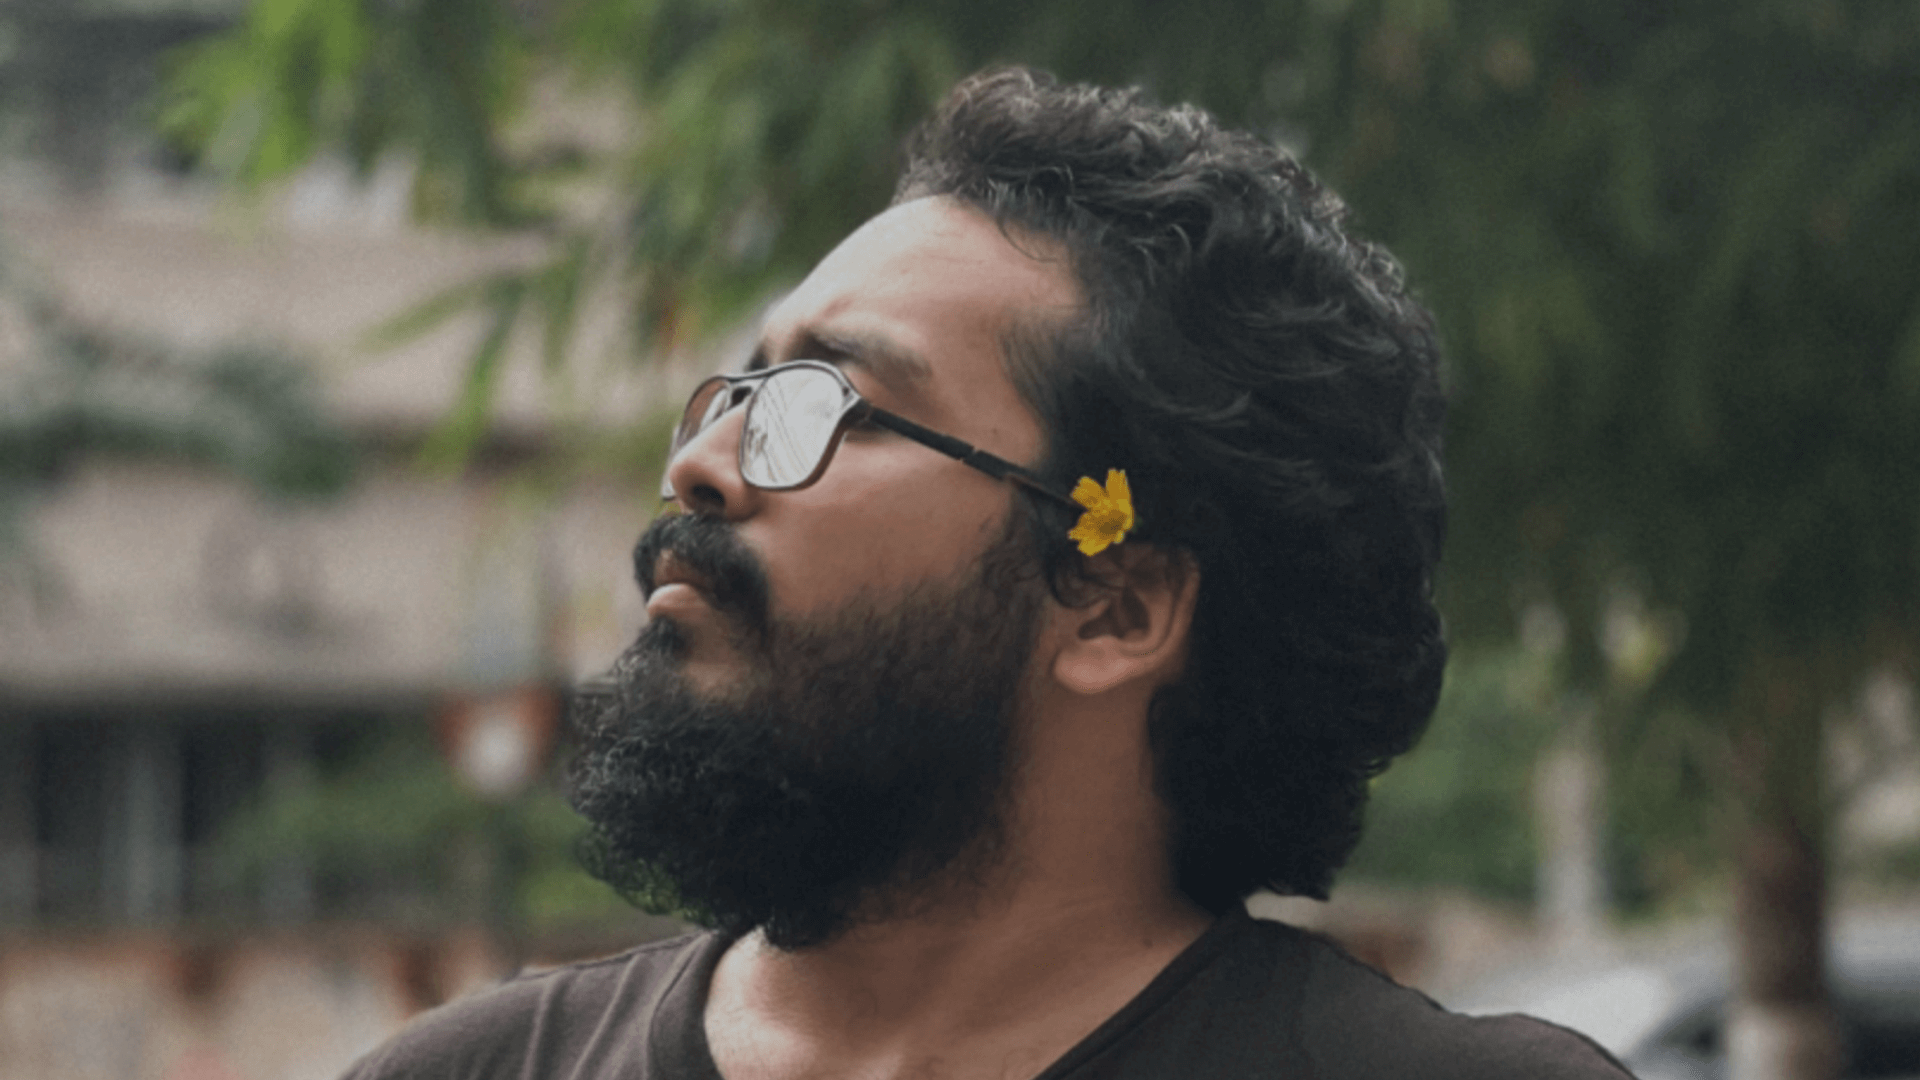
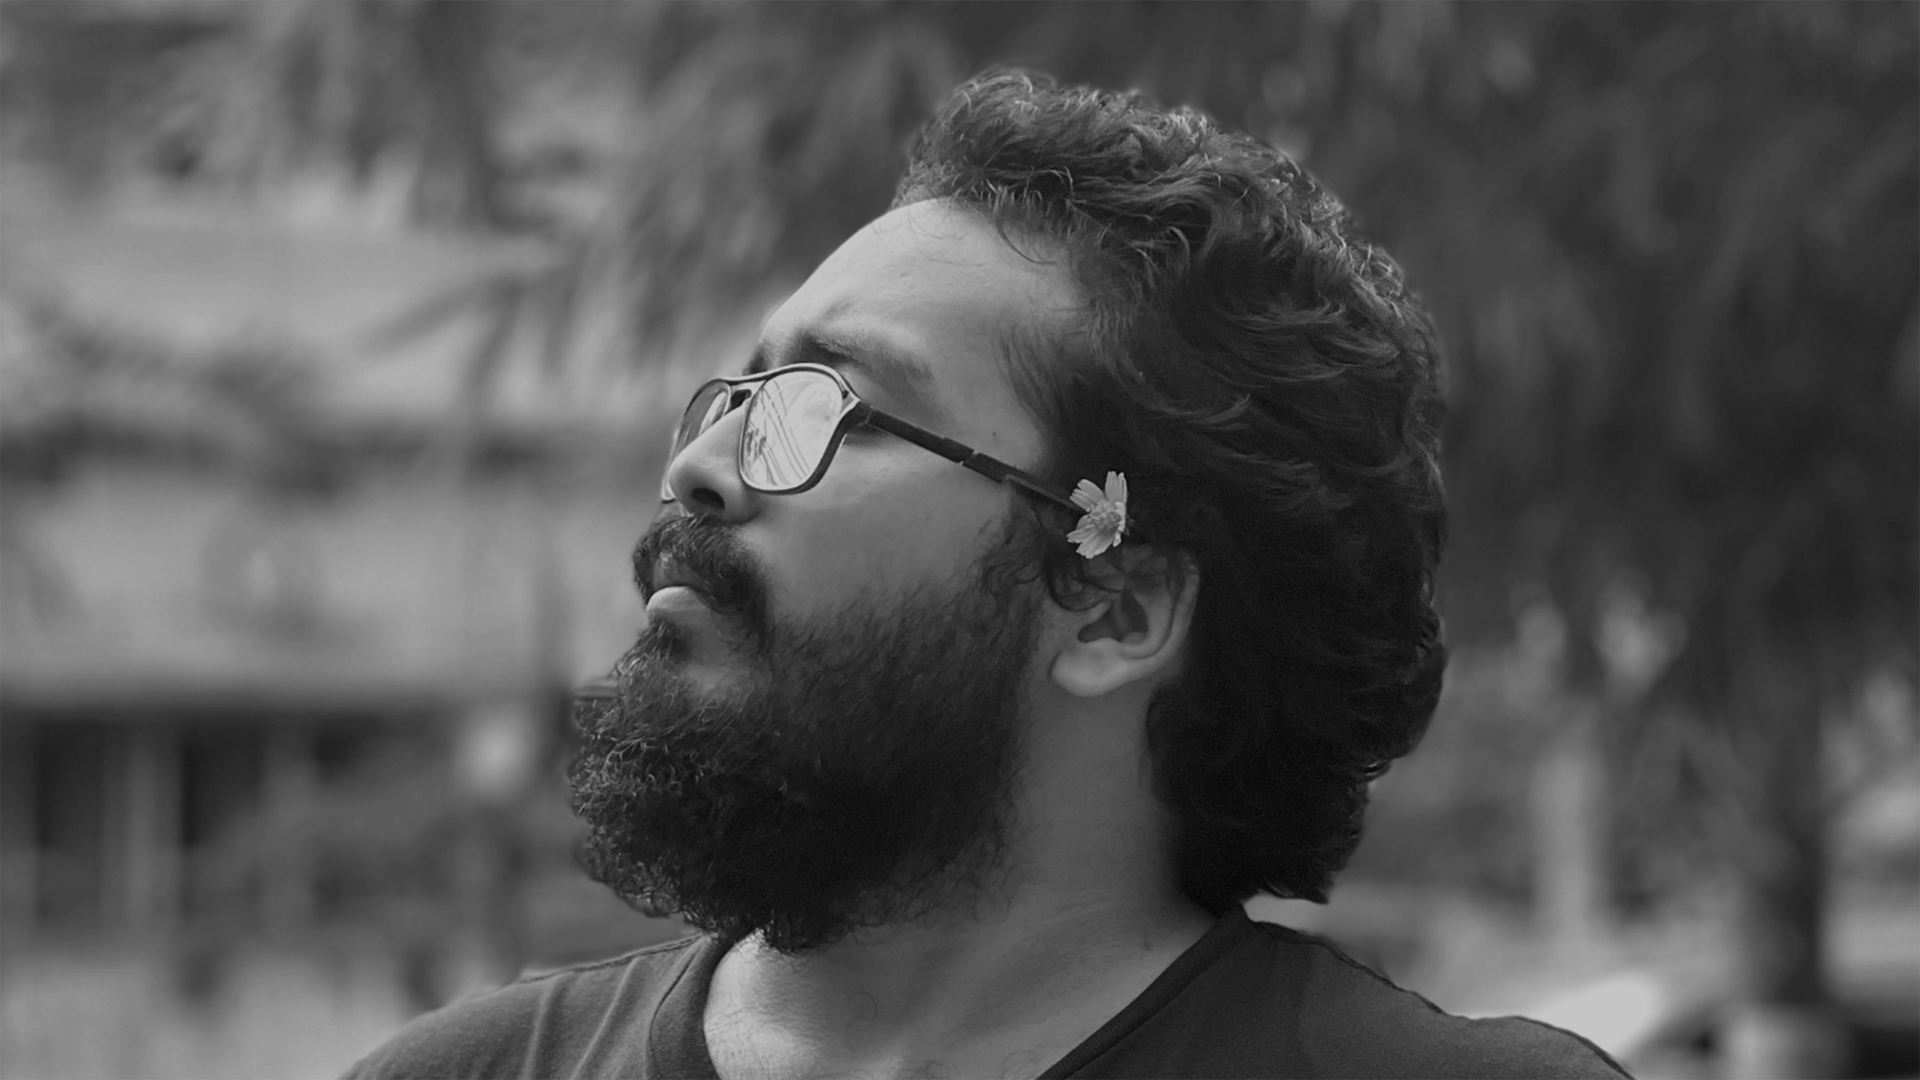
make portfolio photo B&W

diff --git a/about.html b/about.html
@@ -175,7 +175,7 @@
                         <div class="dash"></div>
 
                         <p data-aos="fade-up">
-                            Hey, I'm Sujoy Karmakar, your Full Stack Web
+                            Hey, I'm Sujoy Karmakar, your Full-Stack Web
                             Developer. I design and develop dynamic websites for
                             small and medium businesses. I've been a developer
                             for the last 5 years and I'm currently open to both
